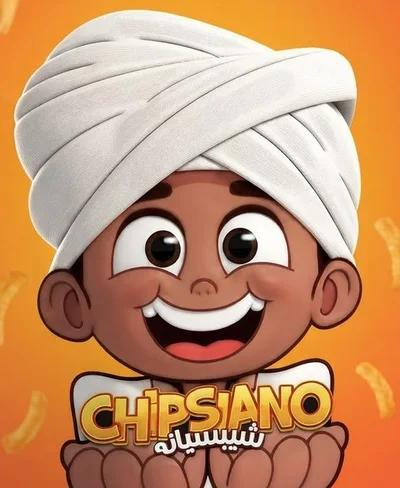
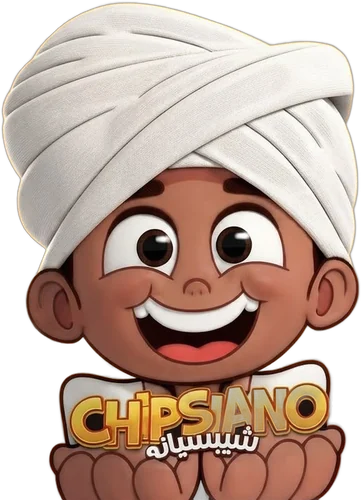
change

diff --git a/styles/globals.css b/styles/globals.css
@@ -251,30 +251,32 @@ html.theme-transition * {
    text/background pair passes WCAG AA in both themes.
    ────────────────────────────────────────────────────────────────────── */
 .dash {
-  /* channels — fixed across every section: wholesale = forest green, retail = navy */
-  --d-w: 46 107 88;   --d-w-i: 255 255 255; --d-ws: 227 238 233; --d-wx: 127 184 164;
-  --d-r: 38 56 94;    --d-r-i: 255 255 255; --d-rs: 226 231 240; --d-rx: 157 178 216;
+  /* Chart colours: clearly different hues that hold up on white AND on the
+     dark theme (each has a deeper day shade and a lighter night shade).
+     channels: wholesale = emerald, retail = indigo */
+  --d-w: 5 150 105;   --d-w-i: 255 255 255; --d-ws: 220 245 234; --d-wx: 110 231 183;
+  --d-r: 79 70 229;   --d-r-i: 255 255 255; --d-rs: 228 229 252; --d-rx: 165 180 252;
   --d-tot: 29 43 51;  --d-toti: 244 241 234; --d-fill: 22 33 28; --d-ln: 227 220 205;
-  --d-tl: 107 122 136; /* trend chart: total line (lighter than navy so the three lines separate) */
-  /* products — cool tones only (no yellow / red): Alwafi = teal pair, snacks = indigo pair */
-  --d-p1: 47 93 98;    --d-p1-i: 255 255 255;
-  --d-p2: 126 165 160; --d-p2-i: 16 33 32;
-  --d-p3: 74 82 128;   --d-p3-i: 255 255 255;
-  --d-p4: 150 158 199; --d-p4-i: 20 24 48;
-  --d-p5: 90 99 93;    --d-p5-i: 255 255 255;
-  --d-p6: 170 178 172; --d-p6-i: 22 33 28;
+  --d-tl: 100 116 139; /* trend chart: total line, neutral slate */
+  /* products / families: blue, orange, teal, rose, violet, gold */
+  --d-p1: 37 99 235;   --d-p1-i: 255 255 255;
+  --d-p2: 234 88 12;   --d-p2-i: 255 255 255;
+  --d-p3: 13 148 136;  --d-p3-i: 255 255 255;
+  --d-p4: 219 39 119;  --d-p4-i: 255 255 255;
+  --d-p5: 124 58 237;  --d-p5-i: 255 255 255;
+  --d-p6: 202 138 4;   --d-p6-i: 40 28 0;
 }
 html.dark .dash {
-  --d-w: 127 184 164; --d-w-i: 11 26 21;  --d-ws: 27 51 43;  --d-wx: 46 107 88;
-  --d-r: 157 178 216; --d-r-i: 12 22 38;  --d-rs: 26 39 64;  --d-rx: 38 56 94;
+  --d-w: 52 211 153;  --d-w-i: 6 32 24;   --d-ws: 16 52 41;  --d-wx: 6 120 85;
+  --d-r: 129 140 248; --d-r-i: 16 18 52;  --d-rs: 32 34 72;  --d-rx: 67 56 202;
   --d-tot: 236 231 221; --d-toti: 13 19 16; --d-fill: 236 231 221; --d-ln: 39 51 45;
-  --d-tl: 184 194 204;
-  --d-p1: 120 176 180; --d-p1-i: 8 22 23;
-  --d-p2: 168 205 200; --d-p2-i: 8 22 23;
-  --d-p3: 150 160 214; --d-p3-i: 12 14 36;
-  --d-p4: 194 200 235; --d-p4-i: 12 14 36;
-  --d-p5: 163 173 166; --d-p5-i: 13 19 16;
-  --d-p6: 110 122 115; --d-p6-i: 236 231 221;
+  --d-tl: 148 163 184;
+  --d-p1: 96 165 250;  --d-p1-i: 8 20 44;
+  --d-p2: 251 146 60;  --d-p2-i: 48 20 4;
+  --d-p3: 45 212 191;  --d-p3-i: 4 36 32;
+  --d-p4: 244 114 182; --d-p4-i: 52 8 30;
+  --d-p5: 167 139 250; --d-p5-i: 28 16 56;
+  --d-p6: 250 204 21;  --d-p6-i: 48 36 2;
 }
 /* Numbers stay left-to-right and sit on the same side as their labels. */
 .dash .dn {

diff --git a/pages/executive/index.js b/pages/executive/index.js
@@ -30,8 +30,8 @@ const TABS = [
   { id: "inventory", label: "المخزون", icon: "box" },
 ];
 const UNIT = "وحدة";
-const GROUP_COLOR = { alwafi: V("p1"), snacks: V("p3"), other: V("p5") };
-const PRODUCT_COLORS = ["p1", "p3", "p2", "p4", "p5", "p6"];
+const GROUP_COLOR = { alwafi: V("p1"), snacks: V("p2"), other: V("p5") };
+const PRODUCT_COLORS = ["p1", "p2", "p3", "p4", "p5", "p6"];
 // SDG amounts: thousands separators, no forced decimals (100,000).
 const money = (n) => (Number(n) || 0).toLocaleString("en-US", { minimumFractionDigits: 0, maximumFractionDigits: 0 });
 const Card = ({ className = "", children }) => <div className={`exec-card min-w-0 ${className}`}>{children}</div>;
@@ -592,8 +592,15 @@ function BrandRibbon({ token, range }) {
       </div>
 
       <div className="brand-in d3 relative overflow-hidden rounded-[1.25rem] p-4 md:p-5 flex flex-col gap-3 text-snow min-w-0" style={{ background: "linear-gradient(140deg, rgb(247 150 40) 0%, rgb(232 96 20) 100%)", boxShadow: "0 14px 30px -18px rgb(232 96 20 / 0.7)" }}>
-        {/* eslint-disable-next-line @next/next/no-img-element */}
-        <img src="/brand/chipsiano.webp" alt="" aria-hidden="true" className="brand-logo-pop absolute -bottom-3 end-[-14px] h-[118px] md:h-[138px] w-auto opacity-95 pointer-events-none" style={{ maskImage: "linear-gradient(to top, transparent 0%, black 22%)", WebkitMaskImage: "linear-gradient(to top, transparent 0%, black 22%)" }} />
+        <span aria-hidden="true" className="brand-float absolute -bottom-2 end-[-6px] pointer-events-none">
+          {/* eslint-disable-next-line @next/next/no-img-element */}
+          <img
+            src="/brand/chipsiano.webp"
+            alt=""
+            className="brand-logo-pop h-[124px] md:h-[146px] w-auto"
+            style={{ filter: "drop-shadow(0 8px 14px rgb(120 40 0 / 0.35))", maskImage: "linear-gradient(to top, transparent 0%, black 16%)", WebkitMaskImage: "linear-gradient(to top, transparent 0%, black 16%)" }}
+          />
+        </span>
         <div className="relative flex items-start justify-between gap-2 pe-[72px] md:pe-[88px]">
           <p className="font-display text-xl md:text-2xl font-extrabold tracking-wide" style={{ textShadow: "0 2px 0 rgb(150 50 0 / 0.35)" }} lang="en" data-no-translate>CHIPSIANO</p>
         </div>

diff --git a/CHANGES.md b/CHANGES.md
@@ -1,3 +1,15 @@
+# Chipsiano cut-out + new chart colours
+
+- Chipsiano card: the character is now cut out of the poster (no square
+  behind him), with a soft shadow and the slow "breathing" motion.
+- Restored `public/brand/mahgoub-mark-white.png` (day-mode watermark).
+- Chart palette redone for contrast in both themes — each colour has a
+  deeper day shade and a lighter night shade: wholesale emerald, retail
+  indigo; products blue, orange, teal, rose, violet, gold. Alwafi vs
+  Chipsiano in the pie: blue vs orange. Applies to the manager's dashboard too.
+
+---
+
 # Executive dashboard — night-mode polish
 
 - Brand cards: figures and their sub-text are pure white on the Alwafi and
